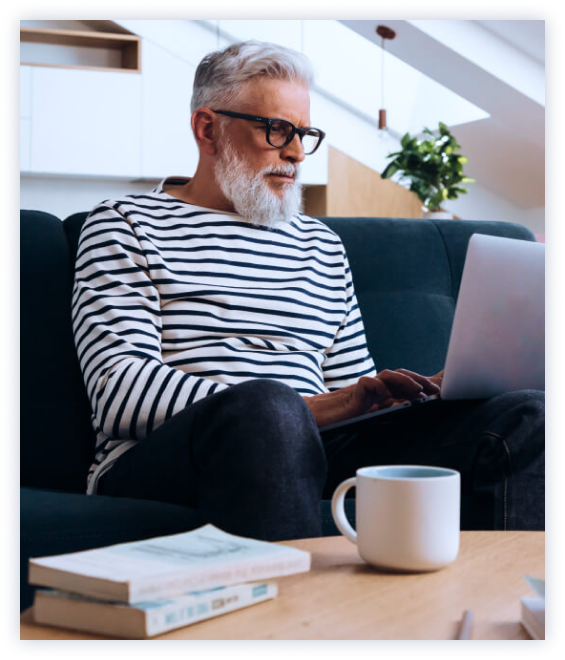
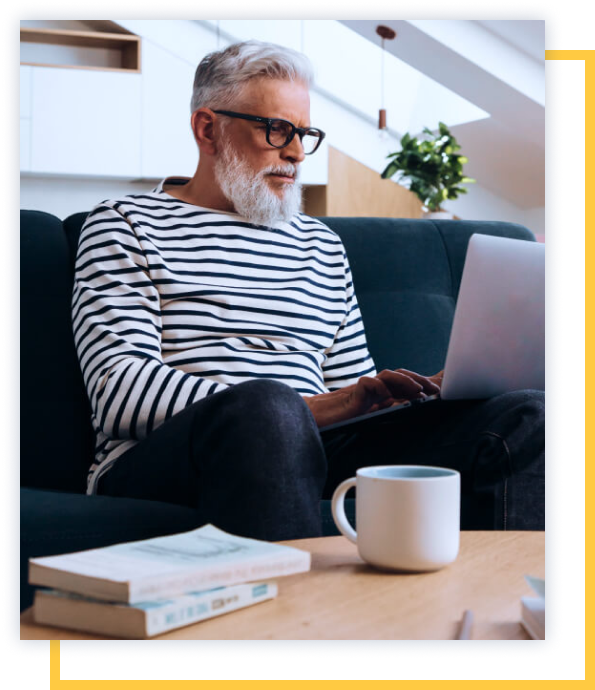
add img, title, text

diff --git a/index.html b/index.html
@@ -105,33 +105,39 @@
         </div>
       </section>
       <section class="about-author">
-        <div class="about-author__photo">
-          <img src="#" alt="photo author" />
-        </div>
-        <div class="about-author__info">
-          <h2 class="about-author__title">About the Author</h2>
-          <hr class="about-author__line" />
-          <p class="about-author__text">
-            We believe that bookstores are essential to a healthy culture.
-            They're where authors can connect with readers, where we discover
-            new writers, where children get hooked on the thrill of reading that
-            can last a lifetime.
-          </p>
-          <div class="about-author__rating">
-            <div class="about-author__books-published">
-              <p class="about-author__number-published">02</p>
-              <p class="about-author__published">Books Published</p>
-            </div>
-            <div class="about-author__user-reviews">
-              <p class="about-author__number-reviews">4.5</p>
-              <p class="about-author__reviews">User Reviews</p>
-            </div>
-            <div class="about-author__best-awards">
-              <p class="about-author__number-awards">04</p>
-              <p class="about-author__awards">Best Seller Awards</p>
-            </div>
+        <div class="about-author__container">
+          <div class="about-author__photo">
+            <img
+              class="about-author__photo-img"
+              src="../pages/images/aboutAuthor.png"
+              alt="photo author"
+            />
           </div>
-          <img src="#" alt="QR code" />
+          <div class="about-author__info">
+            <h2 class="about-author__title">About the Author</h2>
+            <hr class="about-author__line" />
+            <p class="about-author__text">
+              We believe that bookstores are essential to a healthy culture.
+              They're where authors can connect with readers, where we discover
+              new writers, where children get hooked on the thrill of reading
+              that can last a lifetime.
+            </p>
+            <div class="about-author__rating">
+              <div class="about-author__books-published">
+                <p class="about-author__number-published">02</p>
+                <p class="about-author__published">Books Published</p>
+              </div>
+              <div class="about-author__user-reviews">
+                <p class="about-author__number-reviews">4.5</p>
+                <p class="about-author__reviews">User Reviews</p>
+              </div>
+              <div class="about-author__best-awards">
+                <p class="about-author__number-awards">04</p>
+                <p class="about-author__awards">Best Seller Awards</p>
+              </div>
+            </div>
+            <img src="#" alt="QR code" />
+          </div>
         </div>
       </section>
       <section class="trusted">

diff --git a/pages/index.css b/pages/index.css
@@ -46,5 +46,14 @@
 @import url(../blocks/author-book/__text/author-book__text.css);
 @import url(../blocks/author-book/__printed/author-book__printed.css);
 @import url(../blocks/author-book/__order/author-book__order.css);
+
+/*===about-author===*/
+@import url(../blocks/about-author/about-author.css);
+@import url(../blocks/about-author/__container/about-author__container.css);
+@import url(../blocks/about-author/__photo/about-author__photo.css);
+@import url(../blocks/about-author/__photo-img/about-author__photo-img.css);
+@import url(../blocks/about-author/__title/about-author__title.css);
+@import url(../blocks/about-author/__line/about-author__line.css);
+@import url(../blocks/about-author/__text/about-author__text.css);
 @import url();
 @import url();

diff --git a/blocks/about-author/__title/about-author__title.css b/blocks/about-author/__title/about-author__title.css
@@ -1,0 +1,10 @@
+.about-author__title {
+  font-family: "Cardo";
+  font-weight: 400;
+  font-size: 42px;
+  line-height: 50px;
+  margin-top: 0;
+  margin-bottom: 59px;
+  text-transform: capitalize;
+  color: #1b3764;
+}

diff --git a/blocks/about-author/__text/about-author__text.css b/blocks/about-author/__text/about-author__text.css
@@ -1,0 +1,9 @@
+.about-author__text {
+  max-width: 559px;
+  font-family: "Inter";
+  font-size: 19px;
+  line-height: 34px;
+  margin-top: 0;
+  margin-bottom: 33px;
+  color: #969aa0;
+}

diff --git a/blocks/about-author/__line/about-author__line.css b/blocks/about-author/__line/about-author__line.css
@@ -1,0 +1,8 @@
+.about-author__line {
+  position: absolute;
+  top: 10%;
+  width: 50px;
+  left: 52%;
+  border-top: 0;
+  border-bottom: 3px solid #ffca42;
+}

diff --git a/blocks/about-author/about-author.css b/blocks/about-author/about-author.css
@@ -1,0 +1,6 @@
+.about-author {
+  max-width: 1440px;
+  margin: 0 auto;
+  padding: 139px 70px 139px 40px;
+  background: #f5f8fc;
+}

diff --git a/blocks/about-author/__container/about-author__container.css b/blocks/about-author/__container/about-author__container.css
@@ -1,0 +1,6 @@
+.about-author__container {
+  display: flex;
+  max-width: 1300px;
+  margin: 0 auto;
+  position: relative;
+}

diff --git a/blocks/about-author/__photo/about-author__photo.css b/blocks/about-author/__photo/about-author__photo.css
@@ -1,0 +1,4 @@
+.about-author__photo {
+  display: inline-block;
+  margin-right: 150px;
+}

diff --git a/blocks/about-author/__photo-img/about-author__photo-img.css b/blocks/about-author/__photo-img/about-author__photo-img.css
@@ -1,0 +1,3 @@
+.about-author__photo-img {
+  width: 525px;
+}
